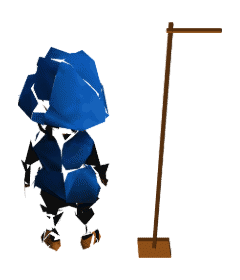
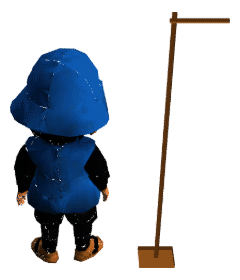
ガイドの素材16枚を新しい兵で作り直し、量子化モデルの外接箱の計算を直す
tools/guide-icons.mjs で兵の絵10枚、tools/guide-photos.mjs でルールの写真6枚を作り直した。
設定（カメラ距離・拡大率・240×280・128色・局面）は変えていない。

gltfpack で量子化したモデルは頂点が整数で入り、ノードの scale で実寸に戻る。ジオメトリの
外接箱をそのまま使っていた play3d.html の控え欄アイコンと guide-icons.mjs は箱が数千倍になり、
控え欄の絵が空の板になっていた。メッシュのノード変換（複数プリミティブでは親の Group）を
箱に掛けるように直した。以前のモデルではノード変換が単位行列なので結果は変わらない。

Claude-Session: https://claude.ai/code/session_013nKbqTkPJMSRT9nEeyhNhc

Changed region(s): [[0.0292, 0.1714, 0.4667, 0.9429], [0.5542, 0.0286, 0.9625, 0.9714], [0.35, 0.2857, 0.3792, 0.3143]]

diff --git a/play3d.html b/play3d.html
@@ -547,14 +547,20 @@ function makeSoldierIconFromObject(obj){
   const back = new THREE.DirectionalLight(0x8fa9d8, 0.4);  back.position.set(-4, 2, -3); sc.add(back);
   obj.rotation.y = Math.PI;                         // 盤上の自軍と同じ向き（奥を向く）
   // 骨付きは skin 変換で立つので、ノード変換込みの setFromObject では箱が潰れる（Armature が微小scale）。
-  // 描画される大きさはジオメトリ本来のバウンディング（全高約0.70・足元原点）に一致するのでそれで構図を取る。
-  // 複数プリミティブのモデルは全プリミティブを合わせないと構図から外れる部位が出る。
+  // 描画される大きさはジオメトリのバウンディングにメッシュのノード変換だけを掛けたもの（全高約0.70・
+  // 足元原点）に一致するのでそれで構図を取る。gltfpack で量子化したモデルは頂点が整数で入り、
+  // このノード変換で実寸に戻るので、掛けないと箱が数千倍になる。
+  // 複数プリミティブのモデルは GLTFLoader がノードを Group にして下にメッシュを並べるので、
+  // ノード変換は親の Group にある。全プリミティブを合わせないと構図から外れる部位が出る。
   let box = null;
   obj.traverse(o => {
     if (!o.isSkinnedMesh) return;
     o.frustumCulled = false;
-    o.geometry.computeBoundingBox();
-    box = box ? box.union(o.geometry.boundingBox) : o.geometry.boundingBox.clone();
+    o.geometry.computeBoundingBox(); o.updateMatrix();
+    const m = o.matrix.clone();
+    if (o.parent && o.parent.isGroup){ o.parent.updateMatrix(); m.premultiply(o.parent.matrix); }
+    const b = o.geometry.boundingBox.clone().applyMatrix4(m);
+    box = box ? box.union(b) : b;
   });
   sc.add(obj);
   if (!box) box = new THREE.Box3().setFromObject(obj);
